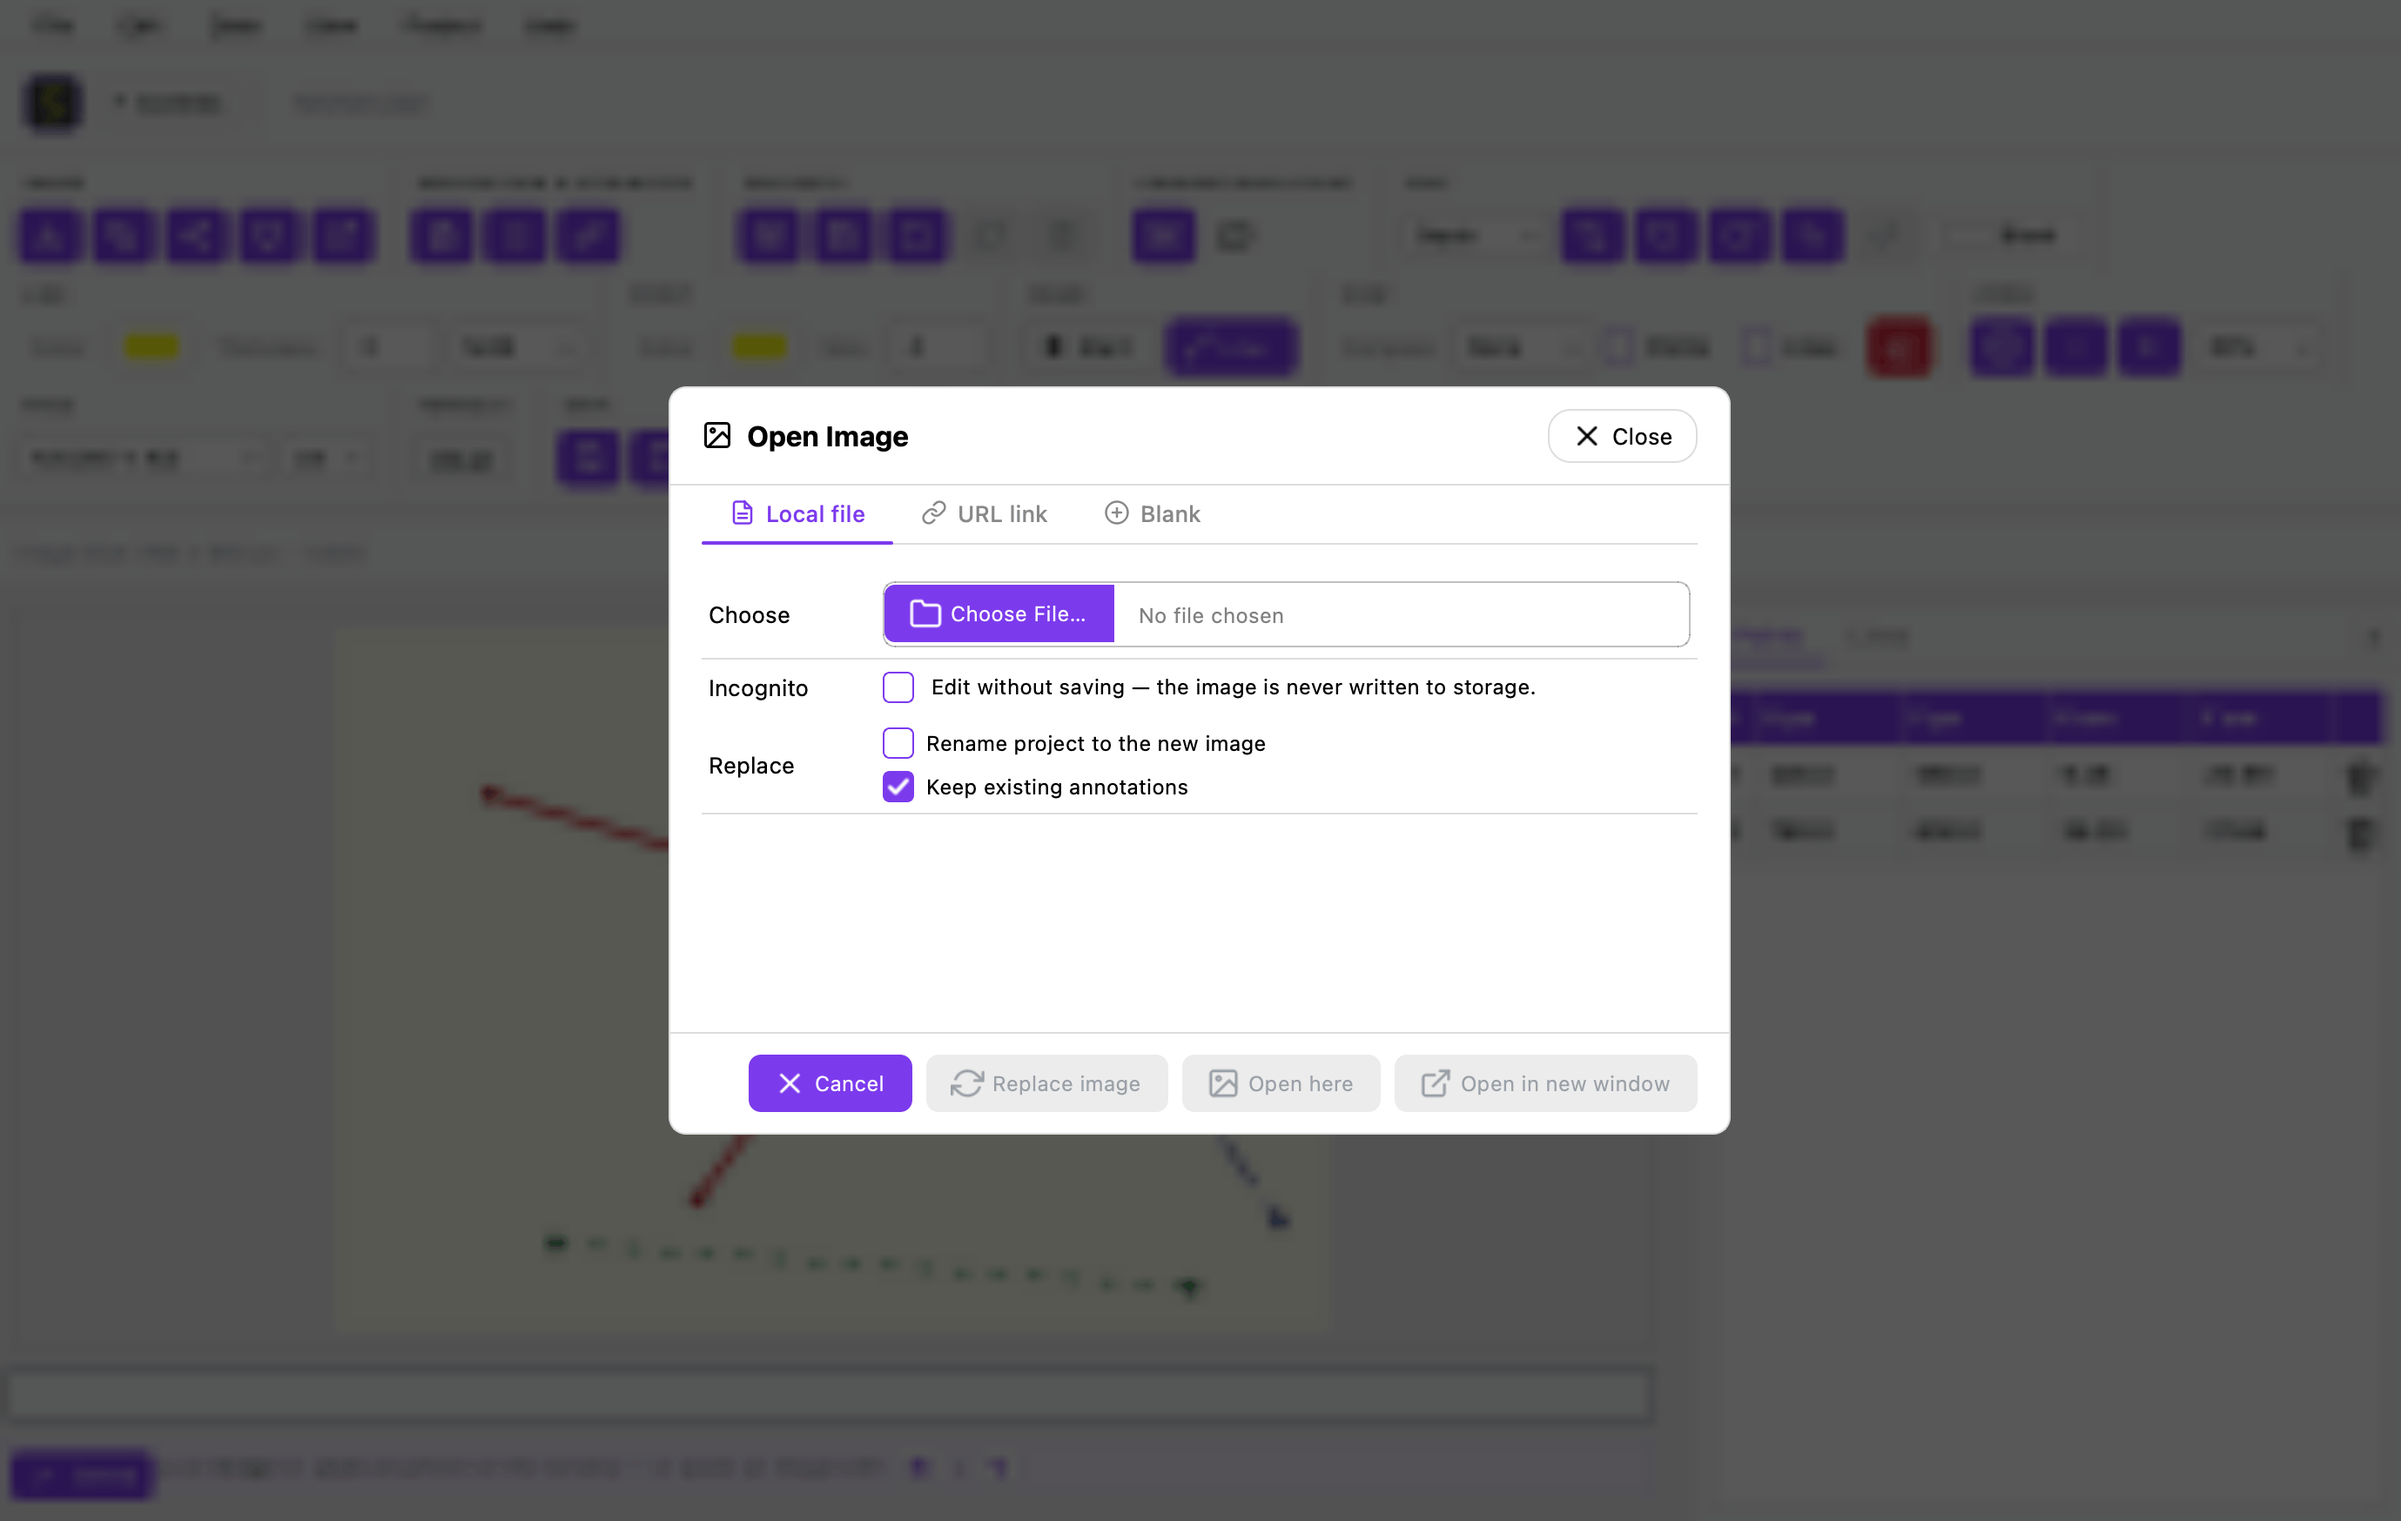
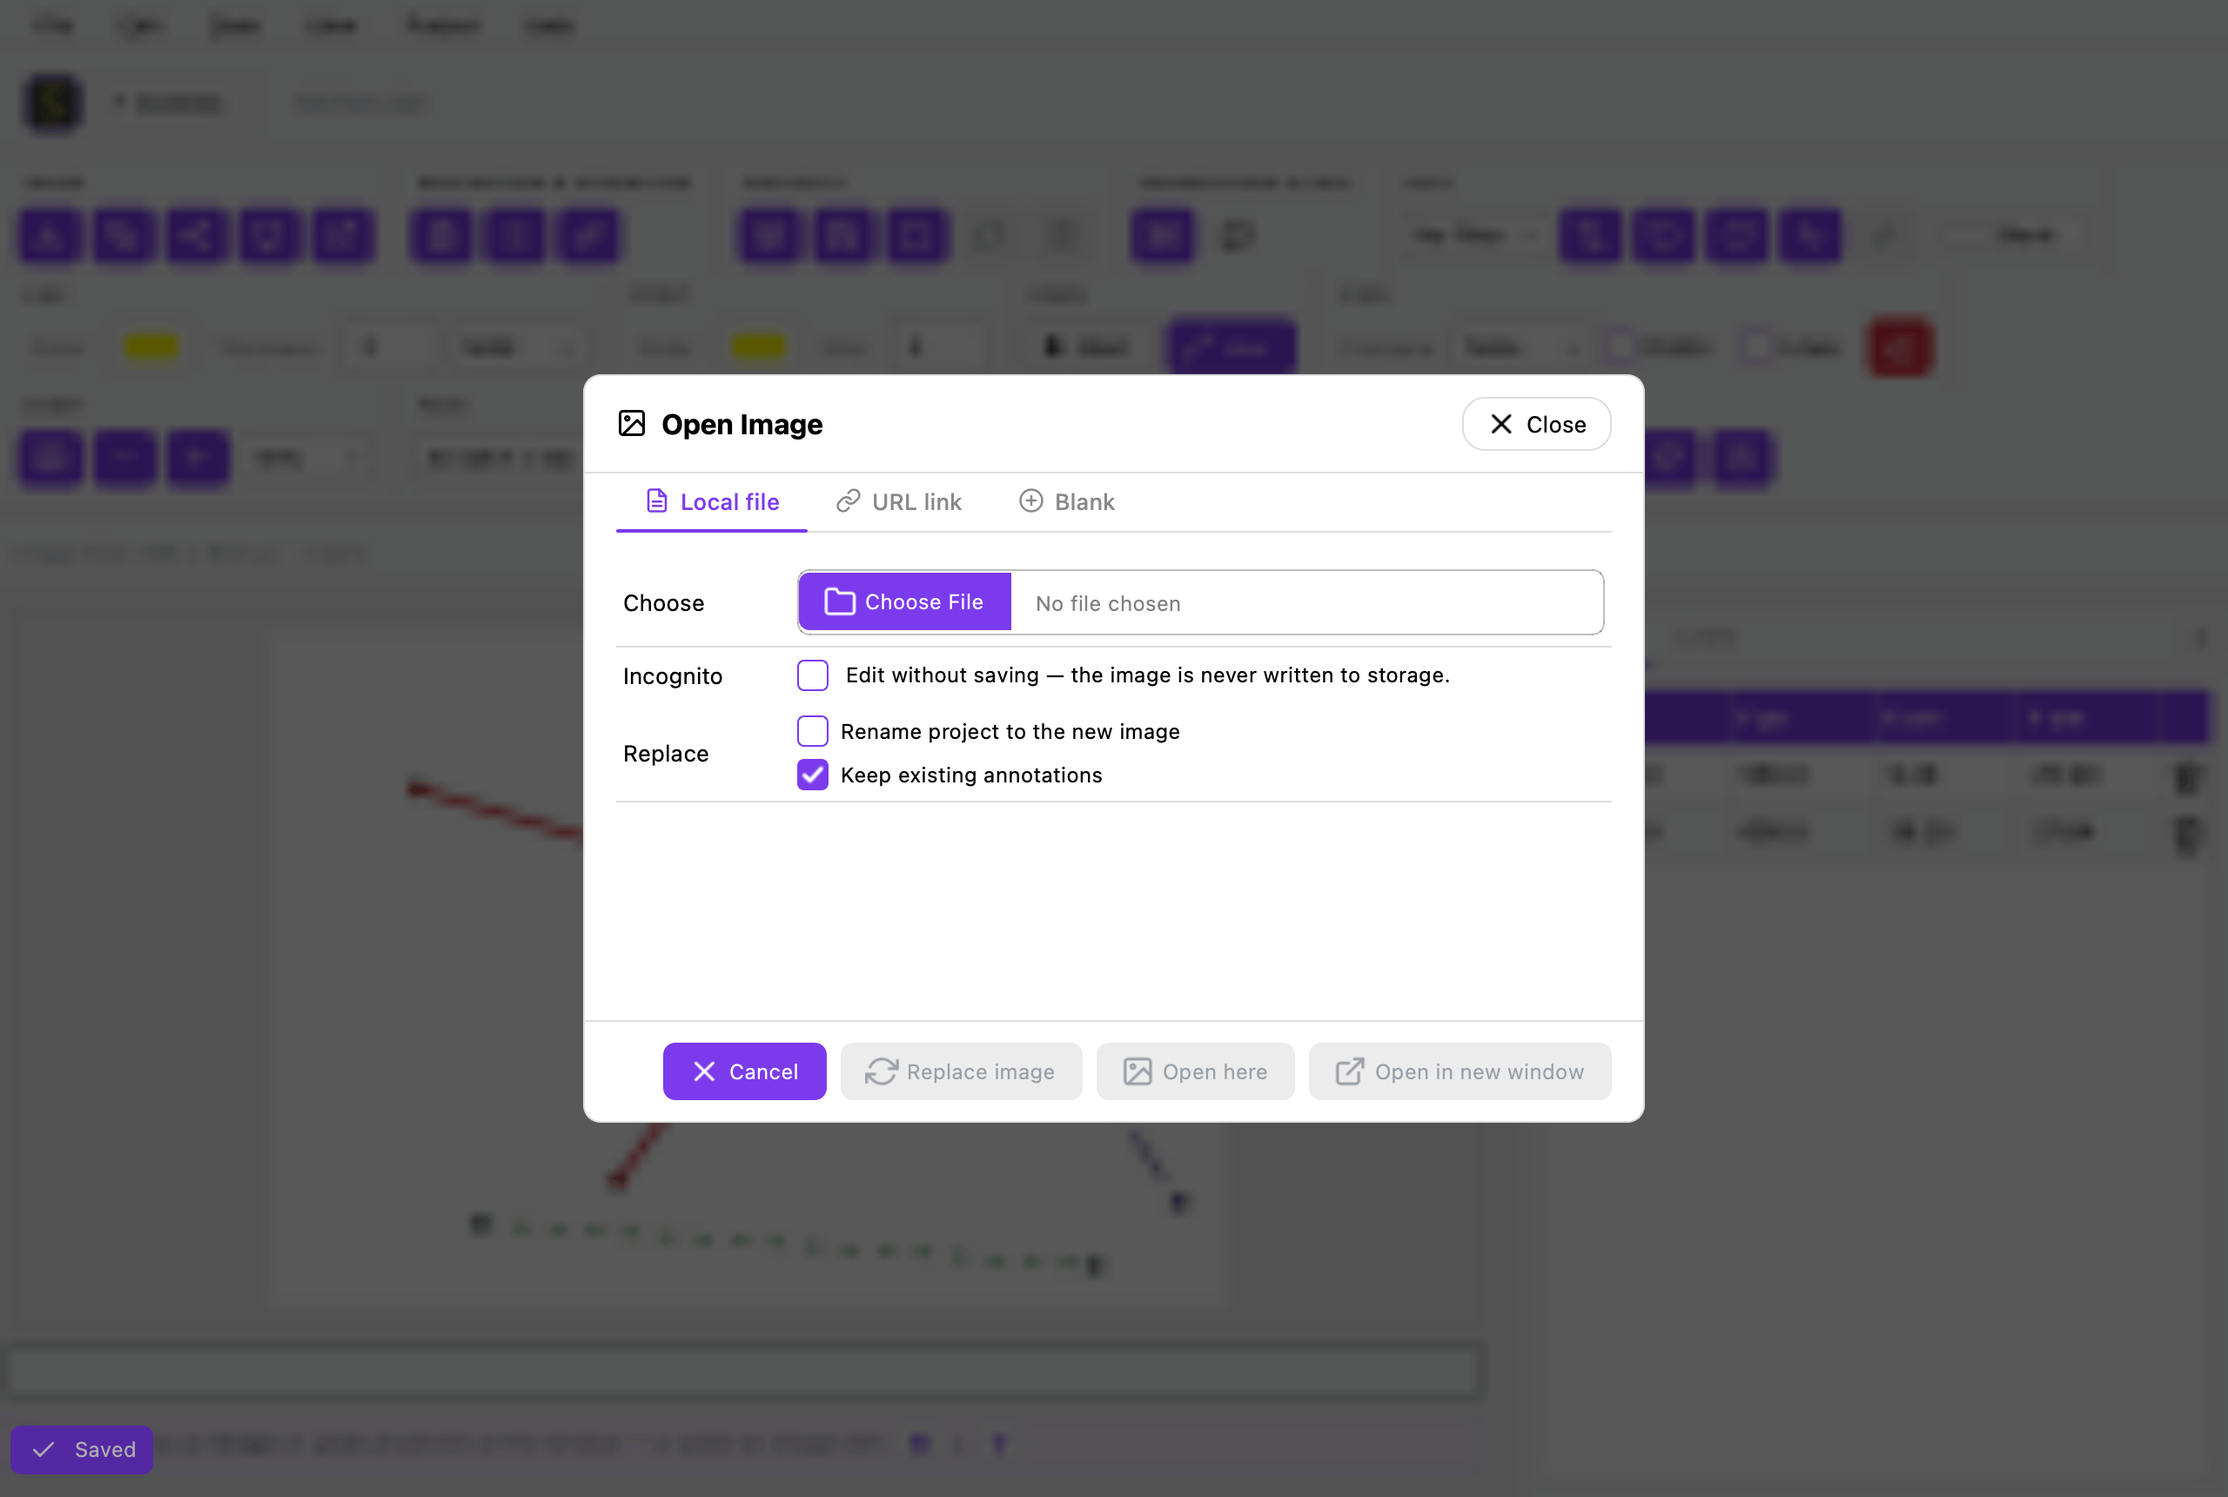
Drop the ellipsis from the page-size Custom option, and re-shoot the dialog

diff --git a/browser/tests/ui-markup.test.js b/browser/tests/ui-markup.test.js
@@ -236,11 +236,11 @@ test('filter selects offer every mode (toolbar options + ctx-menu radios)', () =
     assert.ok(markup.includes('value="contour"> Contour'), 'Contour radio label');
 });
 
-test('page-size select: Custom… first, then the ISO formats labelled with sizes', () => {
+test('page-size select: Custom first, then the ISO formats labelled with sizes', () => {
     const sel = markup.slice(markup.indexOf('id="page-size"'));
-    const custom = sel.indexOf('<option value="custom">Custom…</option>');
-    assert.ok(custom !== -1, 'Custom… option present');
-    assert.ok(custom < sel.indexOf('<option value="A0">'), 'Custom… before the named formats');
+    const custom = sel.indexOf('<option value="custom">Custom</option>');
+    assert.ok(custom !== -1, 'Custom option present');
+    assert.ok(custom < sel.indexOf('<option value="A0">'), 'Custom before the named formats');
     // Spot-check the "<name> (<w> × <h>)" labels (no unit word — #unit-select says it once
     // for the row; trailing zeros trimmed; values from PAGE_SIZES in constants.json).
     assert.ok(markup.includes('<option value="A4">A4 (21 × 29.7)</option>'), 'A4 label');

diff --git a/browser/tests/unitRelabel.test.js b/browser/tests/unitRelabel.test.js
@@ -35,7 +35,7 @@ const stubSelect = (values, unit = 'cm') => ({
   value: values[0],
   options: values.map((v) => ({
     value: v,
-    textContent: v === 'custom' ? 'Custom…' : pageFormatLabel(v, unit),
+    textContent: v === 'custom' ? 'Custom' : pageFormatLabel(v, unit),
   })),
 });
 
@@ -47,12 +47,12 @@ const runApplyUnitToUI = (unit) =>
 
 test('applyUnitToUI relabels the toolbar page-size selector in the active unit', () => {
   const names = Object.keys(PAGE_SIZES);
-  const psSel = stubSelect(['custom', ...names]);       // toolbar: Custom… first
+  const psSel = stubSelect(['custom', ...names]);       // toolbar: Custom first
   elements.clear();
   elements.set('page-size', psSel);
 
   runApplyUnitToUI('in');
-  assert.equal(psSel.options[0].textContent, 'Custom…', 'Custom… label untouched');
+  assert.equal(psSel.options[0].textContent, 'Custom', 'Custom label untouched');
   for (const opt of psSel.options.slice(1))
     assert.equal(opt.textContent, pageFormatLabel(opt.value, 'in'), `toolbar ${opt.value} in inches`);
   assert.equal(psSel.value, 'A4', 'toolbar select re-asserts the model page size');

diff --git a/browser/js/ui/toolbar.js b/browser/js/ui/toolbar.js
@@ -233,10 +233,10 @@ export class StencilToolbar extends StencilElement {
             <div class="ctrl-section">
                 <div class="ctrl-section-label">Page</div>
                 <div class="ctrl-section-row">
-                    <!-- Custom… first, then every named ISO format from PAGE_SIZES with its
+                    <!-- Custom first, then every named ISO format from PAGE_SIZES with its
                          physical size (re-rendered in the active unit by applyUnitToUI). -->
                     <select id="page-size" data-title="Page size">
-                        <option value="custom">Custom…</option>
+                        <option value="custom">Custom</option>
                         ${pageFormatOptions()}
                     </select>
                     <select id="unit-select" data-title="Display units (cm / inches)">

diff --git a/browser/js/ui/openImageMarkup.js b/browser/js/ui/openImageMarkup.js
@@ -111,7 +111,7 @@ export const openImageModalInner = () => `
                             <option value="page">Page — Default</option>
                             <option value="1:1">1:1 (Square)</option>
                             <option value="2:3">2:3</option>
-                            <option value="custom">Custom…</option>
+                            <option value="custom">Custom</option>
                         </select>
                         <span class="oi-crop-size-custom" id="open-image-crop-size-custom" style="display:none">
                             <span class="oi-crop-size-field">

diff --git a/browser/js/ui/unitDisplay.js b/browser/js/ui/unitDisplay.js
@@ -38,7 +38,7 @@ export const applyUnitToUI = (app) => {
   // Named page-size option labels ("A4 (21 × 29.7 cm)") re-render in the active unit.
   // Re-asserting the model value routes through enhanceSelect's wrapped setter, which
   // refreshes the visible dropdown trigger to the relabelled option (and, at boot,
-  // moves the select off its markup default — Custom… is the FIRST option — onto the
+  // moves the select off its markup default — Custom is the FIRST option — onto the
   // app's default page).
   const psSel = document.getElementById('page-size');
   if (psSel) {

diff --git a/browser/js/core/units.js b/browser/js/core/units.js
@@ -86,7 +86,7 @@ export const pageFormatLabel = (name, unit = 'cm') => {
   return `${name} (${fmt(ps.width)} × ${fmt(ps.height)})`;
 };
 
-// <option> markup for every named format, in PAGE_SIZES order; callers prepend extras such as Custom….
+// <option> markup for every named format, in PAGE_SIZES order; callers prepend extras such as Custom.
 export const pageFormatOptions = (unit = 'cm') =>
   Object.keys(PAGE_SIZES)
     .map((n) => `<option value="${n}">${pageFormatLabel(n, unit)}</option>`)

diff --git a/desktop/src/support/guiHelpers.cpp b/desktop/src/support/guiHelpers.cpp
@@ -152,14 +152,14 @@ namespace stencil::gui {
     const QSignalBlocker block(combo);
     if (combo->count() == 0) {  // first fill: items in canonical order
       if (includeCustom)
-        combo->addItem(QStringLiteral("Custom…"), QStringLiteral("custom"));
+        combo->addItem(QStringLiteral("Custom"), QStringLiteral("custom"));
       const QStringList names = QString::fromLatin1(core::pageFormatNames())
                                     .split(' ', Qt::SkipEmptyParts);
       for (const QString& n : names) combo->addItem(n, n);
     }
     for (int i = 0; i < combo->count(); ++i) {
       const QString name = combo->itemData(i).toString();
-      if (name == QLatin1String("custom")) continue;  // label stays "Custom…"
+      if (name == QLatin1String("custom")) continue;  // label stays "Custom"
       const core::PageSize ps = core::namedPageSize(name.toStdString());
       // No trailing unit word: this combo always sits beside its own unit combo, which
       // already says "cm"/"in" once for the whole row (user report; browser twin:

diff --git a/desktop/src/dialogs/OpenImageDialog.cpp b/desktop/src/dialogs/OpenImageDialog.cpp
@@ -285,7 +285,7 @@ namespace stencil::gui {
       cropPageSize_->addItem(tr("Page — Default"), QStringLiteral("page"));
       cropPageSize_->addItem(tr("1:1 (Square)"), QStringLiteral("1:1"));
       cropPageSize_->addItem(tr("2:3"), QStringLiteral("2:3"));
-      cropPageSize_->addItem(tr("Custom…"), QStringLiteral("custom"));
+      cropPageSize_->addItem(tr("Custom"), QStringLiteral("custom"));
       cropPageSize_->setCurrentIndex(0);   // starts on the project's own page
       cropPageSize_->setToolTip("The crop's own aspect ratio");
       sc->addWidget(cropPageSize_);   // its own content width (browser twin: .oi-crop-size, never stretched)

diff --git a/desktop/src/dialogs/SettingsDialog.cpp b/desktop/src/dialogs/SettingsDialog.cpp
@@ -276,7 +276,7 @@ namespace stencil::gui {
     row(tr("Show lines"), showLines_, /*column=*/false);
 
     page_ = new SearchComboBox(host);
-    // Same options as the toolbar combo: Custom… + the full ISO A/B/C
+    // Same options as the toolbar combo: Custom + the full ISO A/B/C
     // series, labels with physical sizes in the user's display unit, item data
     // = the canonical name (read back via currentData in result()).
     fillPageSizeCombo(page_, /*includeCustom=*/true, current.units);
